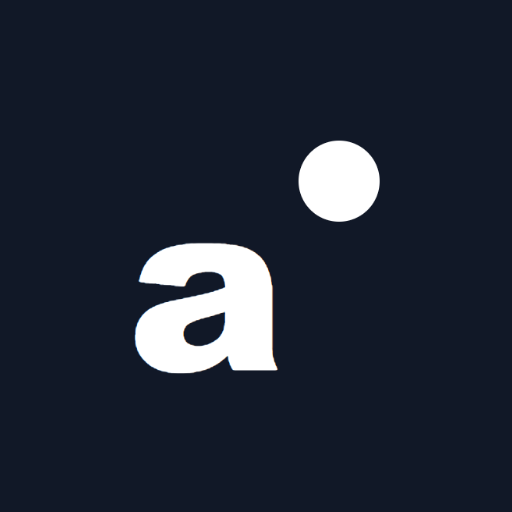
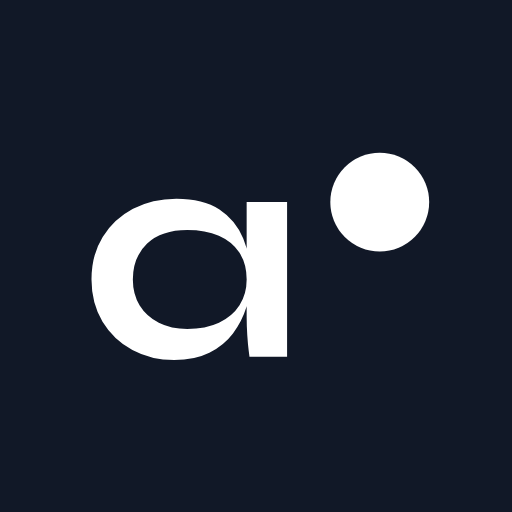
Uygulama ikonu: Syne Bold "a" + marka noktası, vektörden ve ölçülü
- Harf, logodaki yazı tipinden (Syne, 700 kesim) vektör olarak alındı; nokta
  boyu ve yeri logodaki "ayarlıyo•" ile aynı oranda (çap 0,318 em, harfe
  0,139 em, merkezi x-yüksekliği çizgisinde)
- Grup, ağırlık merkezi ile kutu merkezinin ortasına yerleştirildi; içerik
  Android maskeli ikon güvenli alanının (yarıçap %40) içinde, en uzak nokta %36
- Ana ekran (maskeli 192/512), iPhone (180), "any" (yuvarlak köşeli 192/512),
  sekme simgesi (SVG, 32, ICO 16/32/48) aynı çizimden
- Bildirim çubuğu için ayrı beyaz rozet (badge-96.png); önceki rozet koyu kare
  olduğu için Android'de dolu beyaz kare görünüyordu
- Ana çizim: admin-panel/design/app-icon.svg

Claude-Session: https://claude.ai/code/session_01Da8bLAj9a9oYytXdfSoYtK

Changed region(s): [[0.1562, 0.25, 0.8438, 0.75]]

diff --git a/BerberApp.Infrastructure/Services/WebPushNotificationService.cs b/BerberApp.Infrastructure/Services/WebPushNotificationService.cs
@@ -122,7 +122,7 @@ public sealed class WebPushNotificationService : IPushNotificationService
                 title = m.Title,
                 body = m.Body,
                 icon = "/icon-maskable-192.png",
-                badge = "/favicon-192.png",
+                badge = "/badge-96.png",   // Android durum çubuğu: yalnızca saydamlık kullanılır, beyaz işaret
                 tag = m.Tag,
                 renotify = m.Tag != null,
                 data = new
